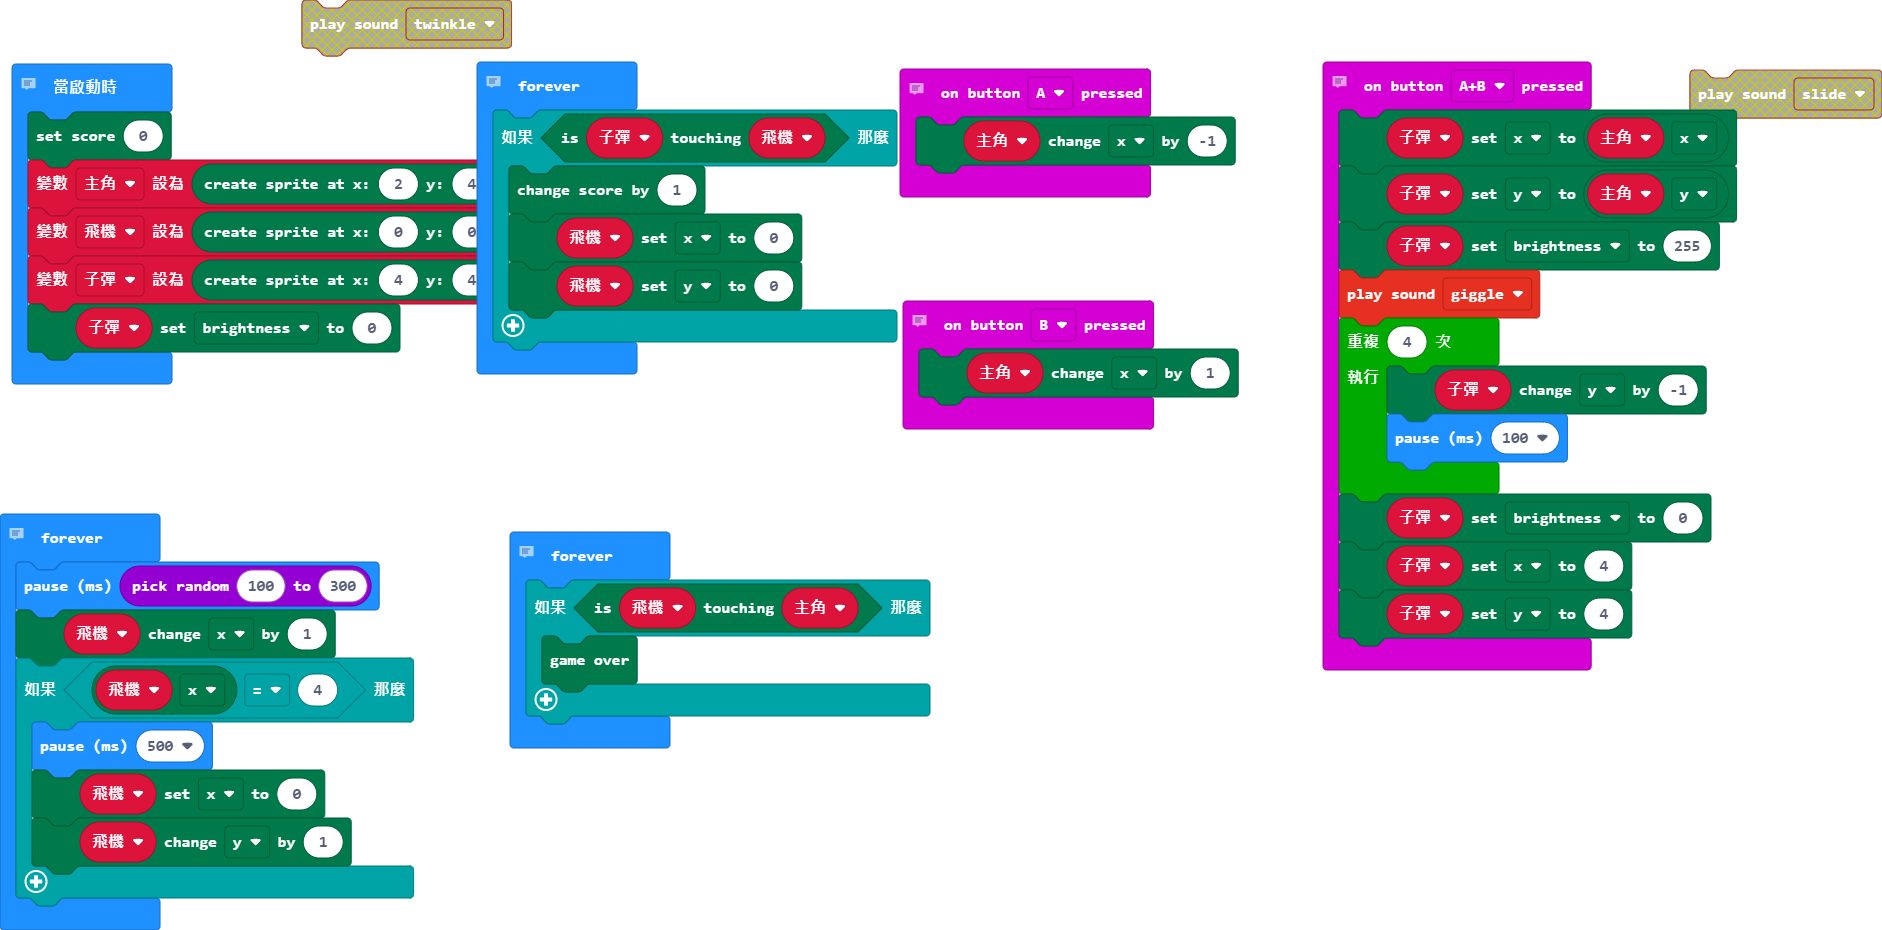
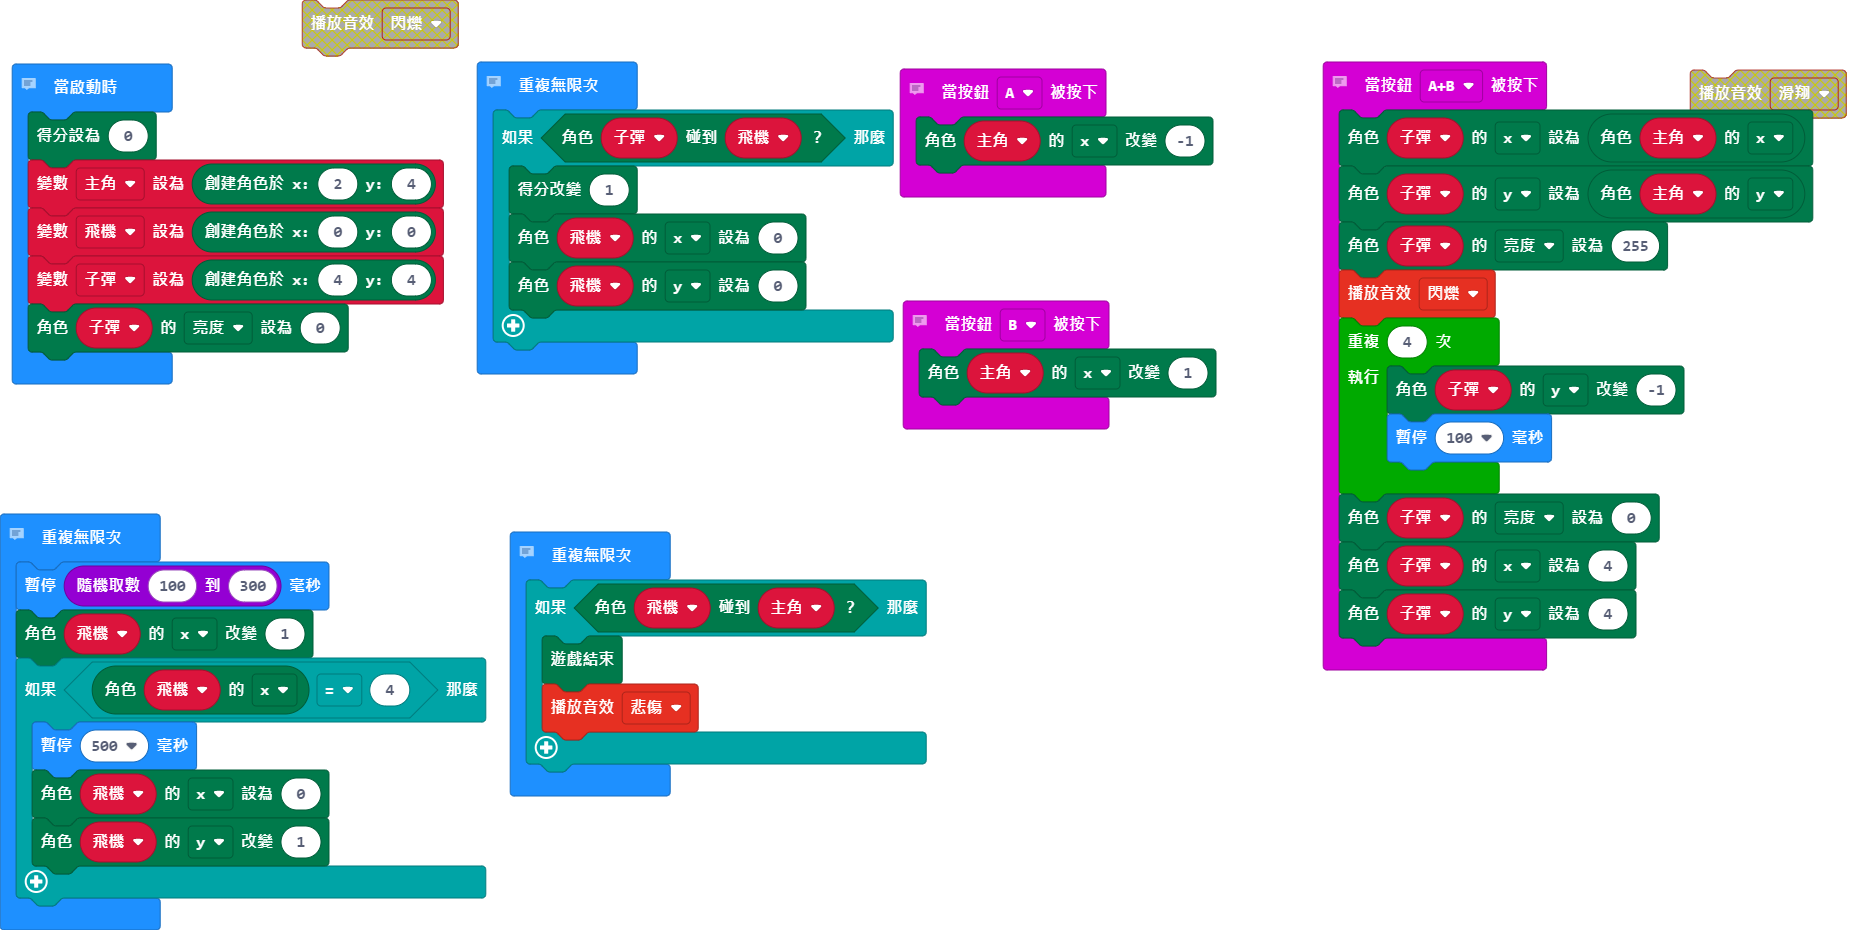
更新 main.blocks, main.ts

diff --git a/main.ts b/main.ts
@@ -9,7 +9,7 @@ input.onButtonPressed(Button.AB, function () {
     子彈.set(LedSpriteProperty.X, 主角.get(LedSpriteProperty.X))
     子彈.set(LedSpriteProperty.Y, 主角.get(LedSpriteProperty.Y))
     子彈.set(LedSpriteProperty.Brightness, 255)
-    soundExpression.giggle.play()
+    soundExpression.twinkle.play()
     for (let index = 0; index < 4; index++) {
         子彈.change(LedSpriteProperty.Y, -1)
         basic.pause(100)
@@ -52,5 +52,6 @@ basic.forever(function () {
 basic.forever(function () {
     if (飛機.isTouching(主角)) {
         game.gameOver()
+        soundExpression.sad.play()
     }
 })
